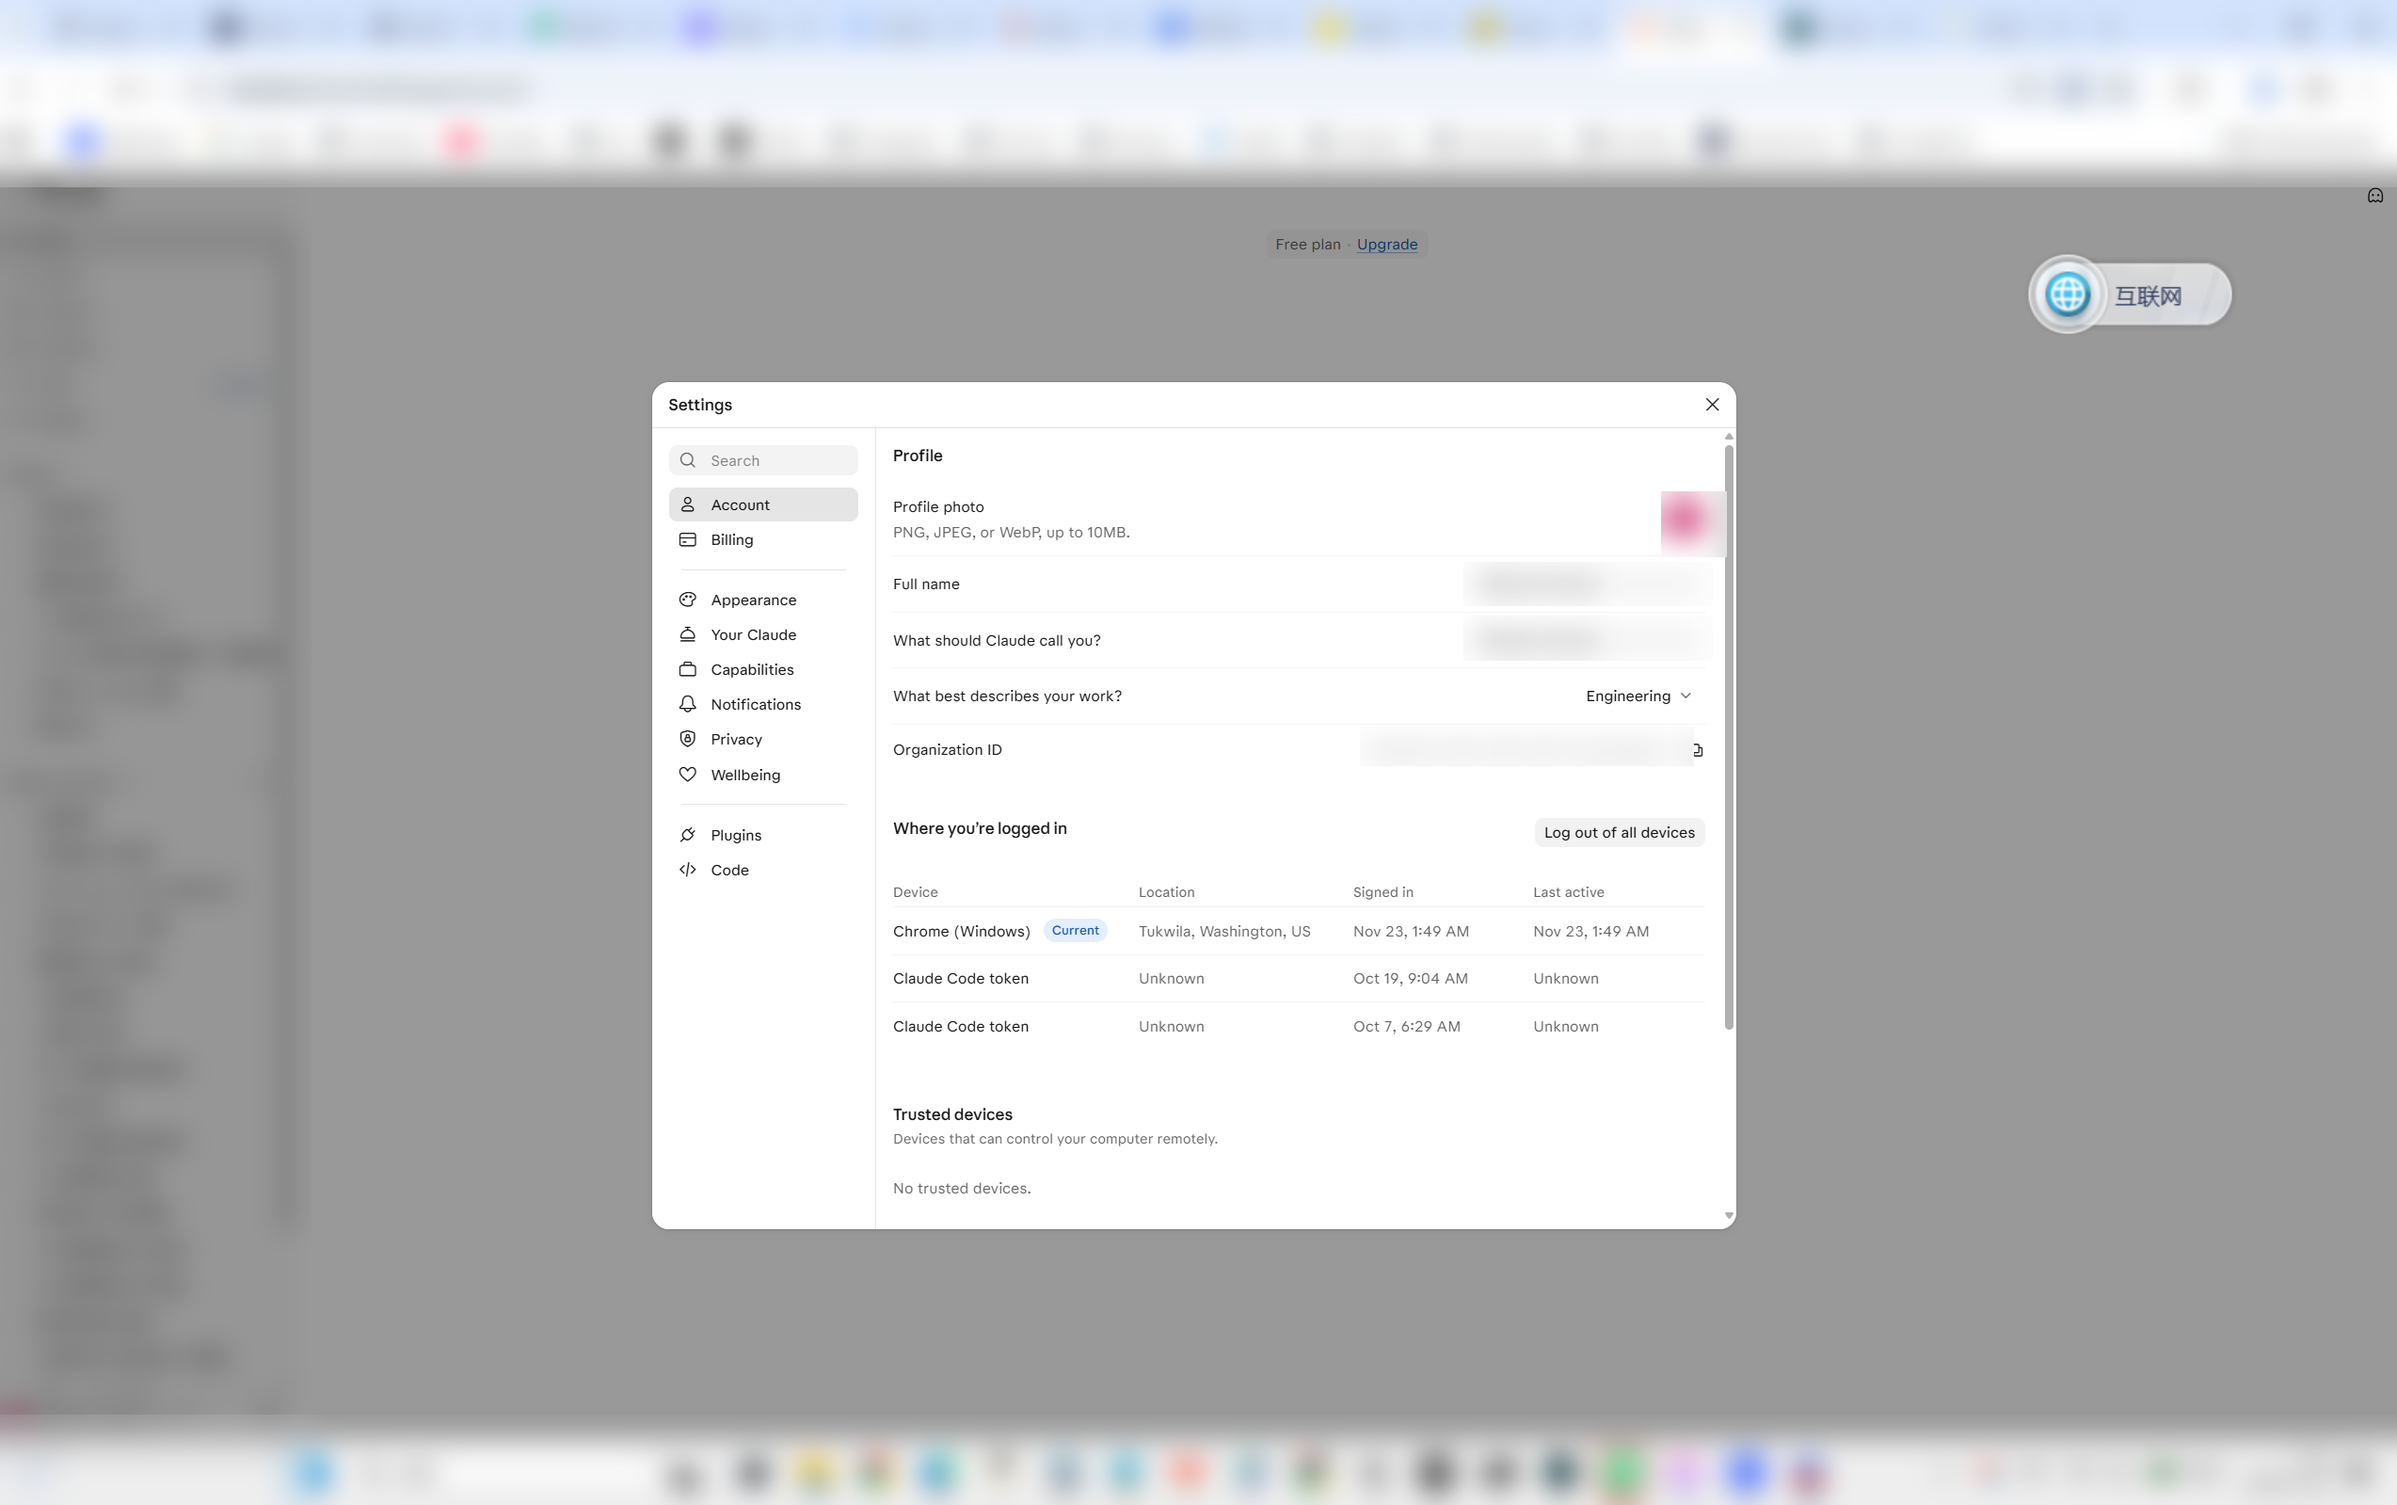
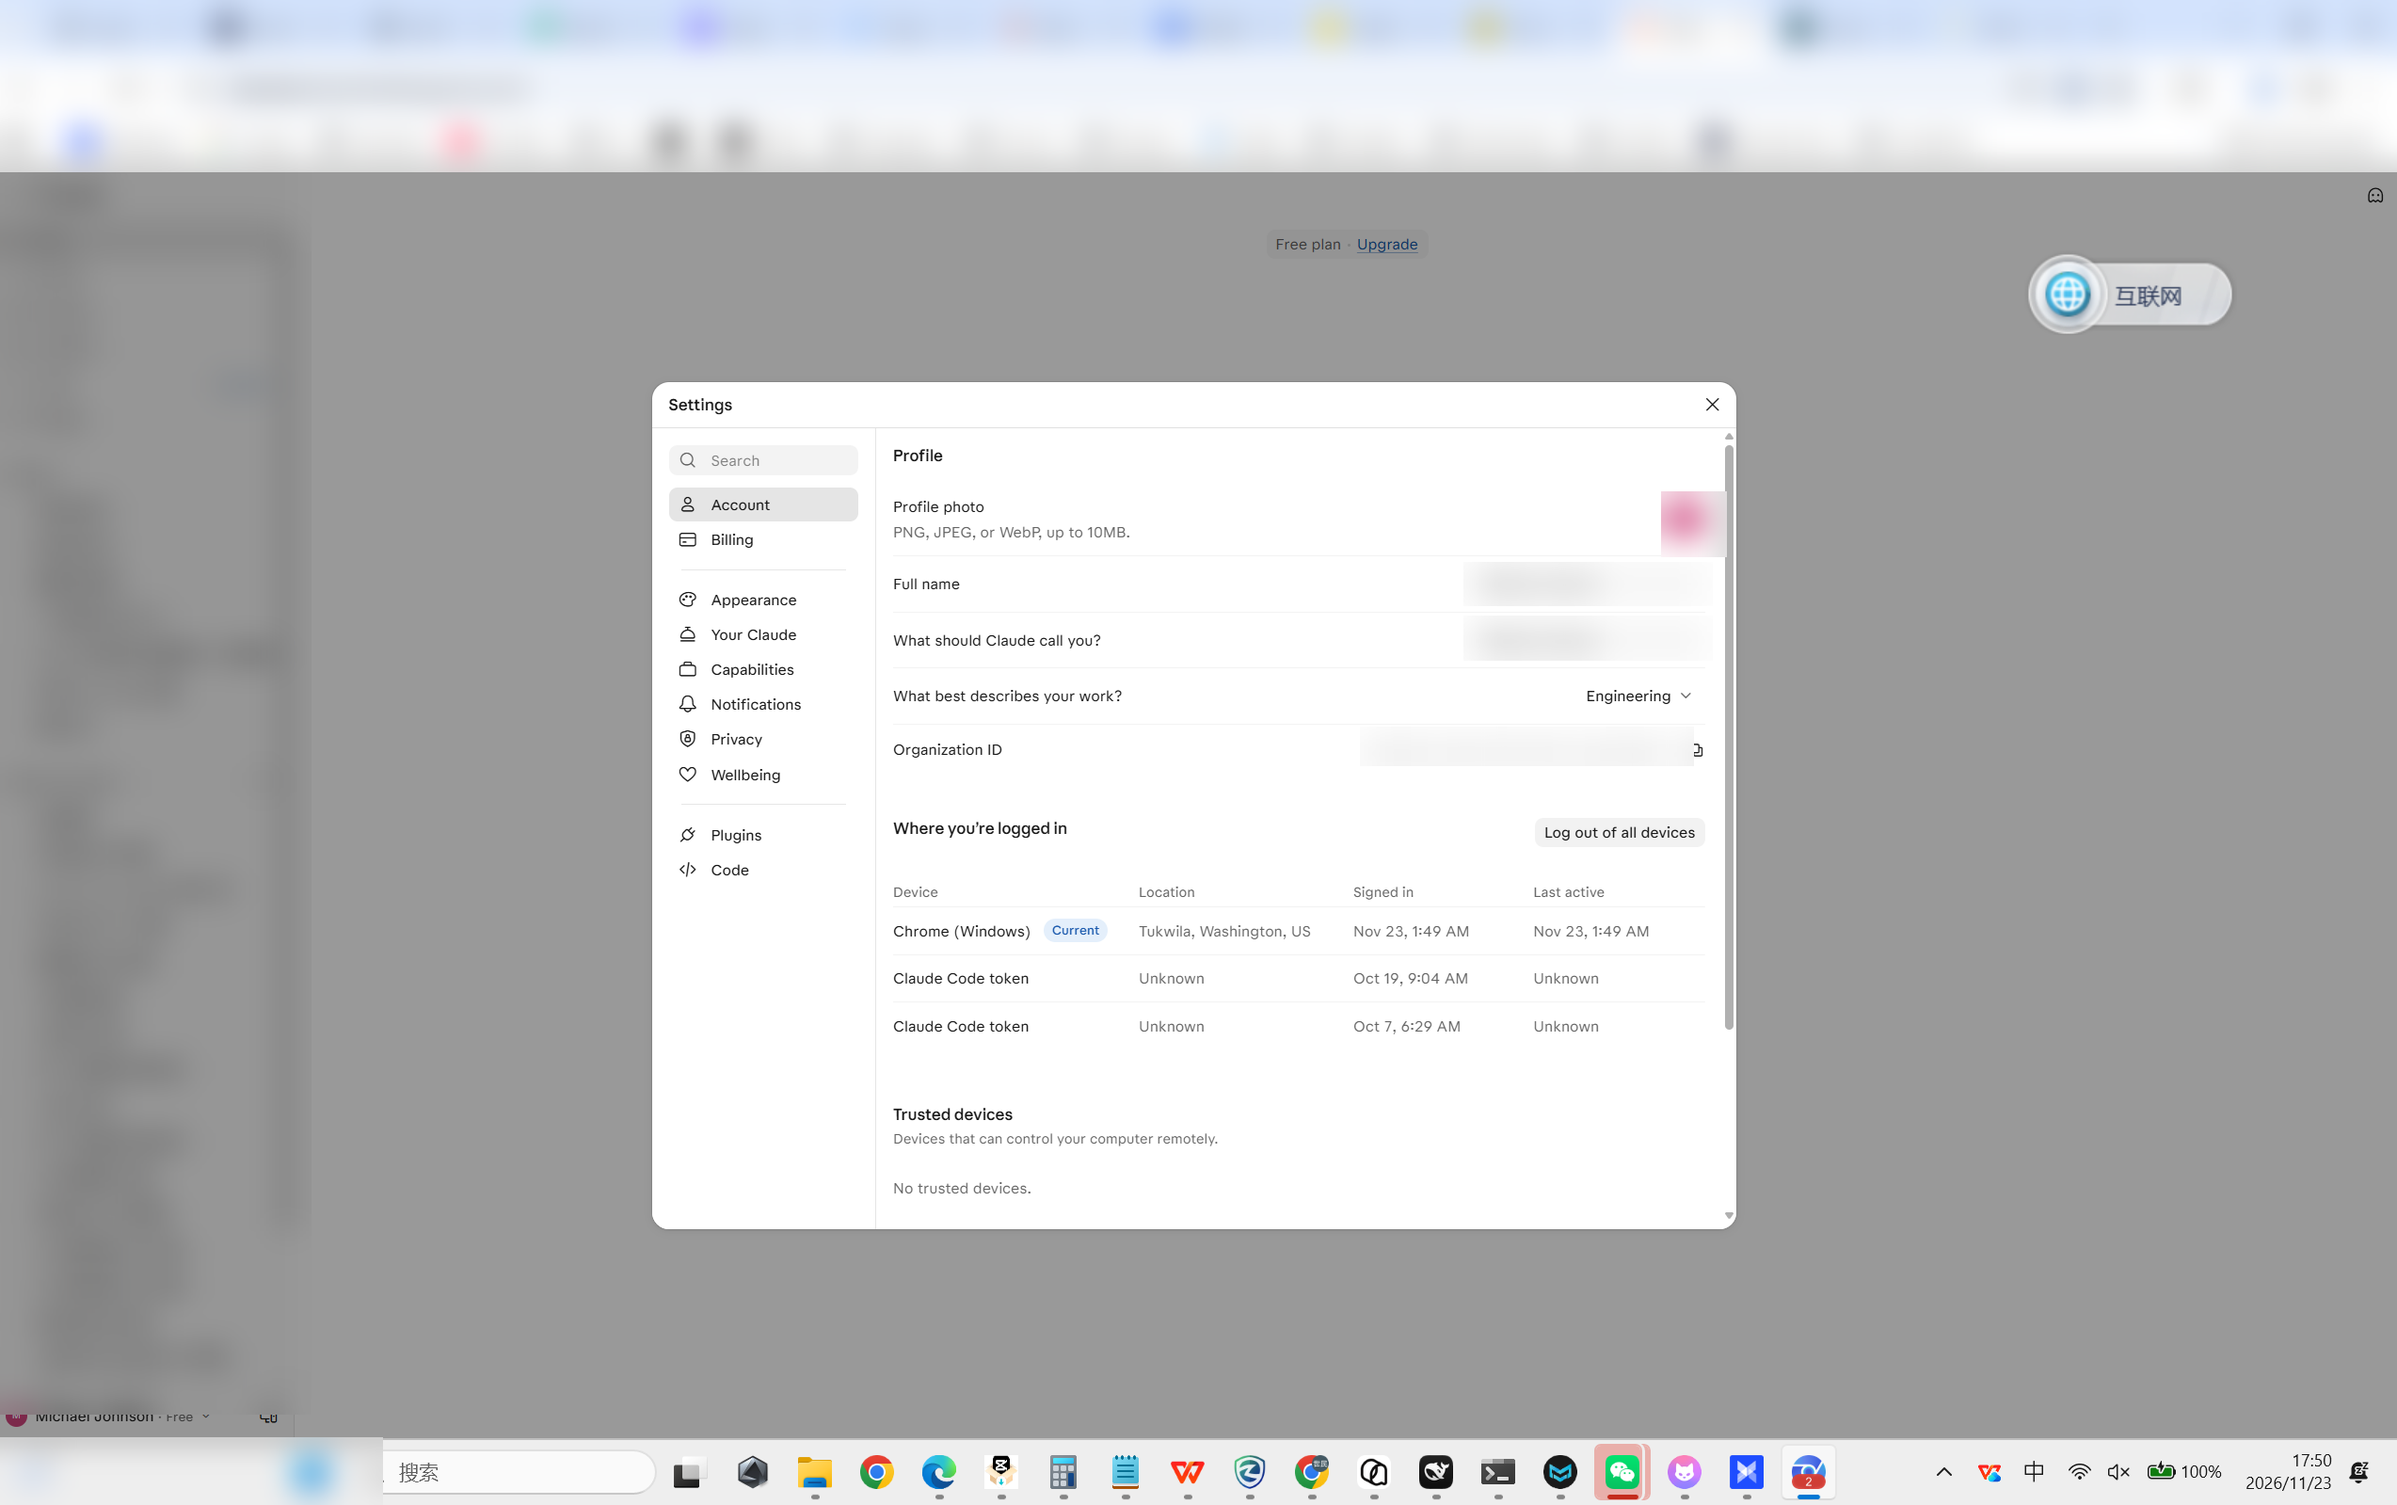
Full-frame screenshots (taskbar visible); document Qoder-agent workflow

Changed region(s): [[0.0, 0.9193, 1.0, 1.0], [0.0, 0.0919, 1.0, 0.1226]]

diff --git a/SKILL.md b/SKILL.md
@@ -233,6 +233,8 @@ examples:
 
 ### Phase 8 · 远程用 Claude Code
 
+> **本机不用装 Claude Code。** 实际用法：用 Qoder 这类 coding agent 下发指令，经 SSH 交给服务器上的 Claude 执行；本机只保留编辑器与浏览器。
+
 - **做什么**：服务器 `claude setup-token` 登录（授权链接拿到**指纹浏览器**里打开）→ 装 `claude-safe` / `cc` → 从本机 SSH 过去用
 - **完成判据**：`ssh <alias> "claude-safe -p 'Reply with exactly: OK'"` 返回 `OK`
 - **每次开工前**：TUN 开着 + GLOBAL 选出口节点 + 出口是美国（见 `references/05` 第六节）

diff --git a/README.en.md b/README.en.md
@@ -47,6 +47,8 @@ claude-antiban-2026/
 
 Give the folder to WorkBuddy / Qoder / Cursor / Codex and say the one-liner above. The agent reads `AGENTS.md` first, then runs Steps 1→17 from `00-START-HERE.md`. You only show up for payments, SMS verification, ID documents, and UAC prompts.
 
+**In practice**: nothing is installed locally — a coding agent such as Qoder sends commands over SSH to the Claude instance running on the server.
+
 **Option 2 — do it yourself**
 
 1. Read `00-START-HERE.md`, follow the steps in order

diff --git a/README.md b/README.md
@@ -69,6 +69,8 @@ claude-antiban-2026/
 
 agent 会先读 `AGENTS.md`，再按 `00-START-HERE.md` 的 Step 1 → 17 执行；你只在付款、收验证码、出证件的时候出现。
 
+**实际用法**：本机不装 Claude Code，用 Qoder 这类 agent 下发指令，通过 SSH 让服务器上的 Claude 执行任务。
+
 **方式二：自己动手**
 
 1. 读 `00-START-HERE.md`，按 Step 顺序做

diff --git a/references/05-claude-code-remote.md b/references/05-claude-code-remote.md
@@ -1,5 +1,7 @@
 > 作者：future ｜ https://github.com/futureYYY/claude-antiban-skill ｜ MIT
 
+> **本机不装 Claude Code**：用 Qoder 等 agent 下发指令，经 SSH 到服务器上的 Claude 执行；本机只保留编辑器与浏览器。
+
 # 阶段 8：远程用 Claude Code
 
 > 本文不含服务器 IP、SSH 端口、token 内容。示例一律用 `<alias>` / `<VPS_IP>`。
